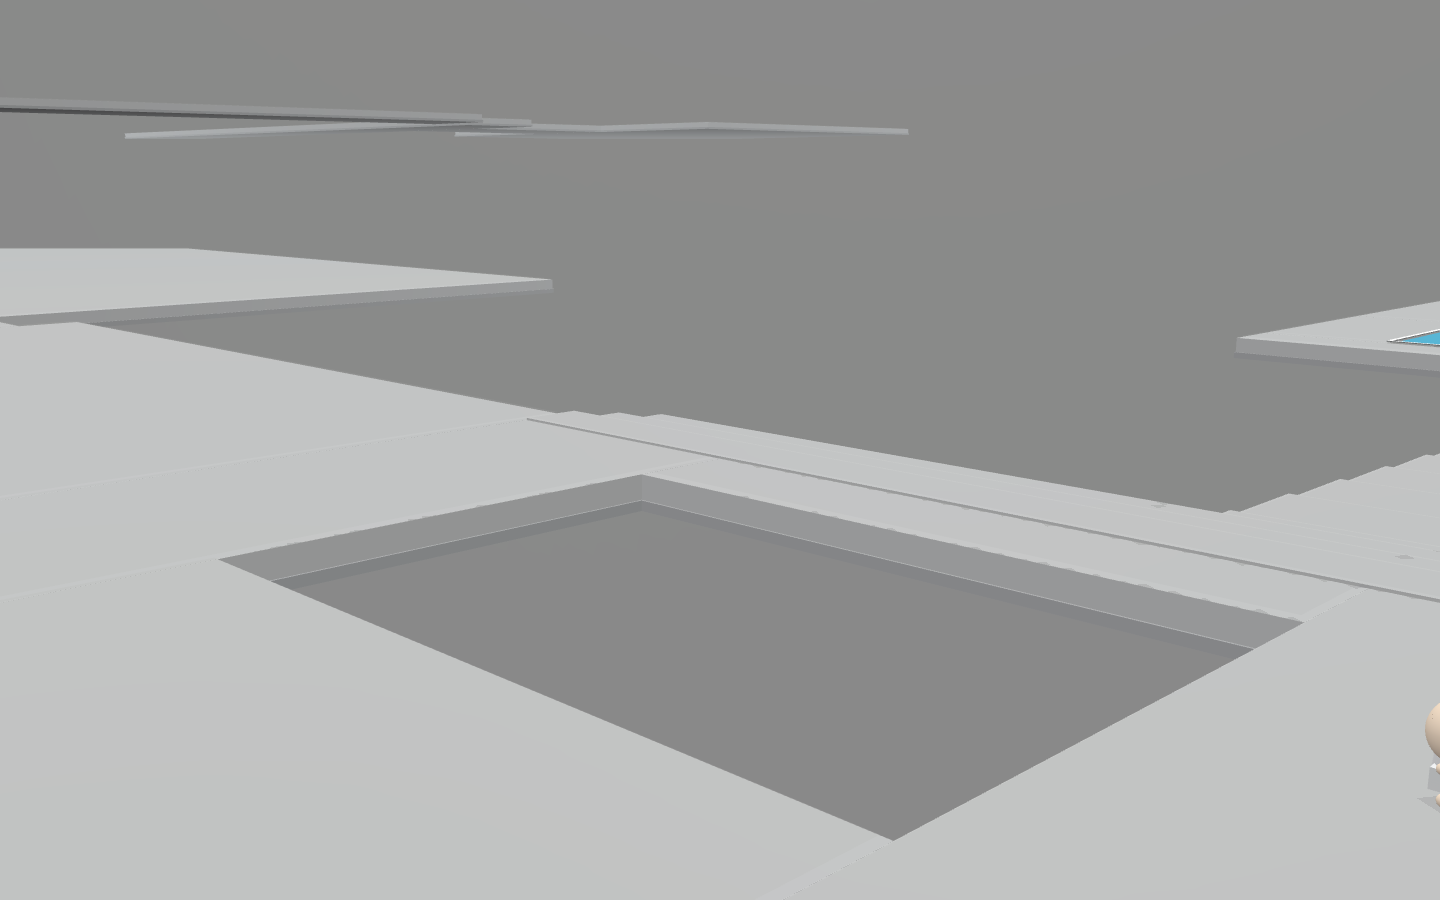
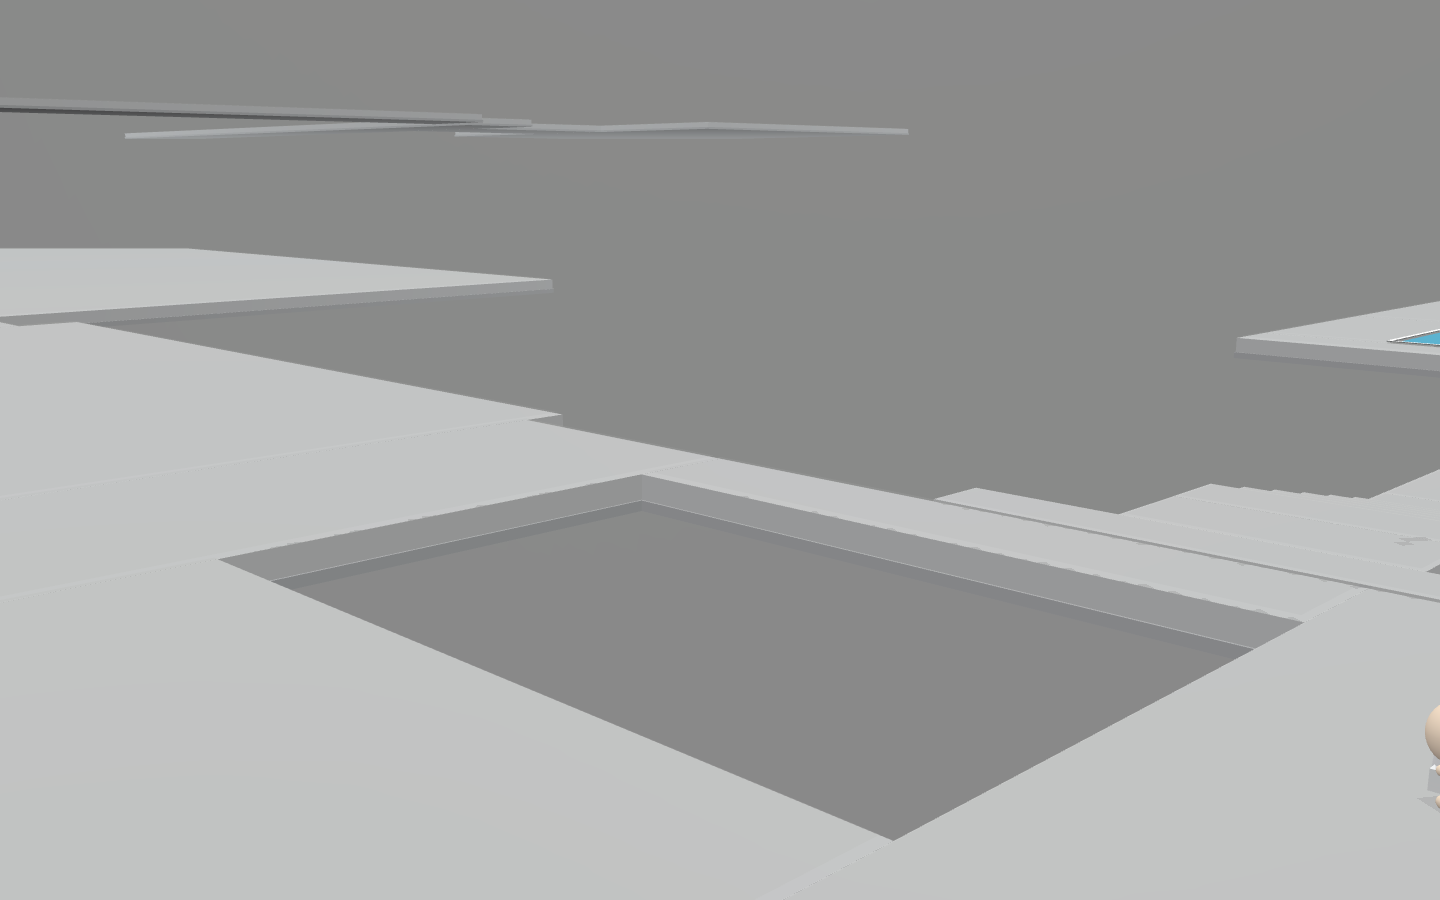
Hide the Level 5 pool tunnel exit

Changed region(s): [[0.375, 0.4356, 1.0, 0.5911]]

diff --git a/src/web3d/world/level5.js b/src/web3d/world/level5.js
@@ -26,6 +26,22 @@ function blockBounds(name, minX, maxX, minY, maxY, minZ, maxZ, extra = {}) {
   };
 }
 
+function shellBlock(name, minX, maxX, minY, maxY, minZ, maxZ, extra = {}) {
+  return blockBounds(name, minX, maxX, minY, maxY, minZ, maxZ, {
+    rgb: extra.rgb || [150, 150, 150],
+    roughness: extra.roughness ?? 0.92,
+    emissiveScale: extra.emissiveScale ?? 0.01,
+    solid: true,
+    structuralShell: true,
+    cameraIgnore: false,
+    cameraBlocker: true,
+    cameraFadeable: false,
+    decorIntent: extra.decorIntent || 'wall',
+    blockerReason: extra.blockerReason || 'room-boundary',
+    ...extra,
+  });
+}
+
 function openingAlongX(centerX, centerY, width, height) {
   return {
     minA: centerX - (width * 0.5),
@@ -207,15 +223,38 @@ const room1Blocks = makeShell('starter_pool_lab', ROOM1, {}, {
   ceilingY: 6.0,
 });
 
-const room2Blocks = makeShell('submerged_service_tunnel', ROOM2, {
-  north: openingAlongX(36.0, -1.15, 2.8, 2.3),
-  south: openingAlongX(36.0, -0.2, 3.0, 2.8),
-}, {
-  rgb: SERVICE_RGB,
-  wallBottomY: -1.8,
-  wallTopY: 1.4,
-  ceilingY: 1.4,
-});
+const room2Blocks = [
+  ...makeShell('submerged_service_tunnel', ROOM2, {
+    north: openingAlongX(36.0, -1.15, 2.8, 2.3),
+    south: openingAlongX(36.0, -0.2, 3.0, 2.8),
+  }, {
+    rgb: SERVICE_RGB,
+    wallBottomY: -1.8,
+    wallTopY: 1.4,
+    ceilingY: 1.4,
+  }),
+  // A low swim slot plus a short dogleg keep the secret exit discoverable only from inside the pool.
+  shellBlock('service_tunnel_mouth_wall_east', 35.0, 38.5, -1.8, 2.6, 34.2, 36.6, {
+    rgb: [110, 110, 110],
+    decorIntent: 'bulkhead',
+    blockerReason: 'secret-tunnel-occluder',
+  }),
+  shellBlock('service_tunnel_mouth_header_west', 33.5, 35.0, -0.25, 2.6, 34.2, 36.6, {
+    rgb: [110, 110, 110],
+    decorIntent: 'bulkhead',
+    blockerReason: 'secret-tunnel-occluder',
+  }),
+  shellBlock('service_tunnel_turn_wall_east', 35.0, 38.5, -1.8, 2.6, 36.6, 43.2, {
+    rgb: [106, 106, 106],
+    decorIntent: 'dogleg-wall',
+    blockerReason: 'secret-tunnel-turn',
+  }),
+  shellBlock('service_tunnel_return_wall_west', 33.5, 36.0, -1.8, 2.6, 43.2, 49.6, {
+    rgb: [106, 106, 106],
+    decorIntent: 'dogleg-wall',
+    blockerReason: 'secret-tunnel-turn',
+  }),
+];
 
 const room3Blocks = [
   ...makeShell('pump_junction', ROOM3, {
@@ -319,32 +358,49 @@ const eastBridgeBounds = {
   maxZ: 34.0,
 };
 
-const tunnelSteps = [];
-for (let index = 0; index < 10; index += 1) {
-  const minZ = 34.0 + (index * 2.5);
-  const maxZ = minZ + 2.5;
-  const topY = -1.6 + (index * 0.1);
-  tunnelSteps.push(surfaceRect(`service_tunnel_step_${index + 1}`, 33.55, 38.45, topY, minZ, maxZ, 'service_tunnel_floor', {
+const tunnelSteps = [
+  surfaceRect('service_tunnel_floor_1', 33.55, 38.45, -1.6, 34.0, 39.0, 'service_tunnel_floor', {
     h: 0.24,
     minThickness: 0.24,
     walkableClassification: 'service-tunnel-floor',
+  }),
+  surfaceRect('service_tunnel_floor_2', 33.55, 38.45, -1.6, 39.0, 44.0, 'service_tunnel_floor', {
+    h: 0.24,
+    minThickness: 0.24,
+    walkableClassification: 'service-tunnel-floor',
+  }),
+  surfaceRect('service_tunnel_floor_3', 33.55, 38.45, -1.6, 44.0, 49.0, 'service_tunnel_floor', {
+    h: 0.24,
+    minThickness: 0.24,
+    walkableClassification: 'service-tunnel-floor',
+  }),
+  surfaceRect('service_tunnel_floor_4', 33.55, 38.45, -1.6, 49.0, 51.0, 'service_tunnel_floor', {
+    h: 0.24,
+    minThickness: 0.24,
+    walkableClassification: 'service-tunnel-floor',
+  }),
+];
+
+const stairRisePerStep = 1.6 / 6.0;
+for (let index = 0; index < 6; index += 1) {
+  const minZ = 51.0 + (index * (8.0 / 6.0));
+  const maxZ = 51.0 + ((index + 1) * (8.0 / 6.0));
+  tunnelSteps.push(surfaceRect(`service_tunnel_stair_${index + 1}`, 33.7, 38.3, -1.6 + ((index + 1) * stairRisePerStep), minZ, maxZ, 'service_tunnel_floor', {
+    h: 0.28,
+    minThickness: 0.28,
+    walkableClassification: 'service-tunnel-stair',
   }));
 }
 
 const pumpNorthThresholds = [
-  surfaceRect('pump_north_step_1', 28.0, 52.0, -0.4, 58.0, 59.333, 'pump_junction_floor', {
-    h: 0.24,
-    minThickness: 0.24,
+  surfaceRect('pump_entry_landing', 33.7, 38.3, 0.0, 59.0, 60.8, 'pump_junction_floor', {
+    h: 0.3,
+    minThickness: 0.3,
     walkableClassification: 'threshold-floor',
   }),
-  surfaceRect('pump_north_step_2', 28.0, 52.0, -0.2, 59.333, 60.667, 'pump_junction_floor', {
-    h: 0.24,
-    minThickness: 0.24,
-    walkableClassification: 'threshold-floor',
-  }),
-  surfaceRect('pump_north_step_3', 28.0, 52.0, 0.0, 60.667, 62.0, 'pump_junction_floor', {
-    h: 0.24,
-    minThickness: 0.24,
+  surfaceRect('pump_entry_spread', 31.0, 41.0, 0.0, 60.8, 62.0, 'pump_junction_floor', {
+    h: 0.3,
+    minThickness: 0.3,
     walkableClassification: 'threshold-floor',
   }),
 ];
@@ -435,7 +491,7 @@ export const LEVEL5 = compileAuthoredEraLayout({
         ceilingY: 6.0,
         floorSurfaceType: 'starter_room_floor',
         wallLanguage: 'graybox_lab_shell',
-        landmarks: ['pool', 'south pool tunnel mouth'],
+        landmarks: ['pool', 'hidden south pool tunnel mouth'],
         shell: false,
         surfaces: [
           surfaceRect('starter_floor_north', 0.0, 48.0, 0.0, 0.0, 26.0, 'starter_room_floor', {
@@ -767,6 +823,7 @@ export const LEVEL5 = compileAuthoredEraLayout({
       w: 16.0,
       h: 2.25,
       d: 8.0,
+      northExitStairs: false,
       southTunnelMouth: {
         centerX: 36.0,
         centerY: -1.15,
@@ -778,16 +835,28 @@ export const LEVEL5 = compileAuthoredEraLayout({
   ],
   submergedPassages: [
     {
-      name: 'service_tunnel_water',
+      name: 'service_tunnel_water_main',
       minX: 33.5,
       maxX: 38.5,
       minY: -1.8,
       maxY: 1.4,
       minZ: 34.0,
-      maxZ: 59.0,
-      waterSurfaceY: 1.2,
+      maxZ: 54.0,
+      waterSurfaceY: 1.0,
       floorStartY: -1.6,
-      floorEndY: -0.6,
+      floorEndY: -1.6,
+    },
+    {
+      name: 'service_tunnel_water_stairs',
+      minX: 33.5,
+      maxX: 38.5,
+      minY: -1.8,
+      maxY: 1.4,
+      minZ: 54.0,
+      maxZ: 59.0,
+      waterSurfaceY: -0.15,
+      floorStartY: -1.0,
+      floorEndY: 0.0,
     },
   ],
   ladders: [

diff --git a/tests/runtime-levels.spec.js b/tests/runtime-levels.spec.js
@@ -1578,6 +1578,38 @@ async function sampleLevel5Pose(page, pose, waitMs = 220) {
   }));
 }
 
+async function getLevel5SecretTunnelAudit(page) {
+  return page.evaluate(() => {
+    const scene = window.__DADA_DEBUG__?.sceneRef ?? null;
+    /** @type {any[]} */
+    const meshes = scene?.meshes ?? [];
+    const sourceNameFor = (mesh) => String(mesh?.metadata?.sourceName || mesh?.name || '');
+    const camera = scene?.activeCamera ?? null;
+    const screenSamples = [
+      { id: 'left_stairs', x: 120, y: 300 },
+      { id: 'left_block', x: 260, y: 285 },
+      { id: 'top_strip', x: 640, y: 125 },
+      { id: 'pool_back', x: 290, y: 305 },
+    ];
+
+    return {
+      screenSamples: screenSamples.map((sample) => {
+        const hit = scene?.pick?.(
+          sample.x,
+          sample.y,
+          (mesh) => mesh?.isVisible !== false && (mesh?.visibility ?? 1) > 0.02,
+          false,
+          camera,
+        ) ?? null;
+        return {
+          id: sample.id,
+          sourceName: sourceNameFor(hit?.pickedMesh),
+        };
+      }),
+    };
+  });
+}
+
 async function climbLevel5Ladder(page, pose, holdMs = 2300) {
   await resetEra5Pose(page, pose);
   await page.waitForTimeout(120);
@@ -1661,6 +1693,16 @@ test('@level5 @era5 runtime: level 5 graybox route is traversable, both ladders 
       minY: -1.9,
     },
     {
+      pose: { x: 36.0, y: -0.95, z: 54.6, yaw: Math.PI, cameraYaw: Math.PI },
+      bounds: { minX: 33.5, maxX: 38.5, minY: -1.8, maxY: 1.4, minZ: 34.0, maxZ: 59.0 },
+      minY: -1.4,
+    },
+    {
+      pose: { x: 36.0, y: -0.25, z: 57.4, yaw: Math.PI, cameraYaw: Math.PI },
+      bounds: { minX: 33.5, maxX: 38.5, minY: -1.8, maxY: 1.4, minZ: 34.0, maxZ: 59.0 },
+      minY: -0.6,
+    },
+    {
       pose: { x: 31.0, y: 0.42, z: 68.0, yaw: Math.PI * 0.5, cameraYaw: Math.PI * 0.5 },
       bounds: { minX: 28.0, maxX: 52.0, minY: -0.6, maxY: 7.4, minZ: 58.0, maxZ: 78.0 },
       minY: 0.2,
@@ -1712,6 +1754,27 @@ test('@level5 @era5 runtime: level 5 graybox route is traversable, both ladders 
   const ladderState = await page.evaluate(() => window.__DADA_DEBUG__?.era5LevelState?.graybox ?? null);
   expect(ladderState?.ladders?.map((ladder) => ladder.id)).toEqual(['west_ladder', 'east_ladder']);
   expect(ladderState?.activeLadderId ?? null).toBeNull();
+});
+
+test('@level5 @era5 runtime: level 5 secret pool tunnel stays hidden from Room 1 and the stair run exits the water halfway up', async ({ page }) => {
+  test.setTimeout(120_000);
+  await gotoDebugLevel(page, 5);
+  await unlockEra5(page);
+  await startDebugLevel(page, 5);
+  await page.waitForTimeout(1300);
+  await resetEra5Pose(page, { x: 8.0, y: 0.42, z: 18.0, yaw: Math.PI * 0.5, cameraYaw: Math.PI * 0.5 });
+  await page.waitForTimeout(300);
+
+  const audit = await getLevel5SecretTunnelAudit(page);
+  const visibleSources = (audit.screenSamples || []).map((sample) => sample.sourceName || '');
+  for (const sourceName of visibleSources) {
+    expect(sourceName.includes('pump_junction')).toBe(false);
+    expect(sourceName.includes('transfer_gallery')).toBe(false);
+    expect(sourceName.includes('grand_stadium_room')).toBe(false);
+    expect(sourceName.includes('service_tunnel_turn_wall_east')).toBe(false);
+    expect(sourceName.includes('service_tunnel_return_wall_west')).toBe(false);
+  }
+
 });
 
 test('@level5 @era5 runtime: level 5 manual reset respawns to the starter pool lab anchor', async ({ page }) => {

diff --git a/tests/screenshot.spec.js b/tests/screenshot.spec.js
@@ -860,11 +860,29 @@ test('capture Level 5 graybox proof screenshots', async ({ page }) => {
     pose: { x: 8.0, y: 0.42, z: 18.0, yaw: Math.PI * 0.5, cameraYaw: Math.PI * 0.5 },
     view: {
       label: 'l5-graybox-room1',
-      position: { x: 5.5, y: 3.8, z: 8.5 },
-      target: { x: 36.0, y: -0.6, z: 30.0 },
+      position: { x: 6.0, y: 3.4, z: 10.0 },
+      target: { x: 36.0, y: -0.85, z: 31.2 },
+      fov: 0.6,
+    },
+  });
+
+  await frameRoom({
+    path: 'docs/screenshots/level5-graybox-room1-hidden-exit.png',
+    pose: { x: 8.0, y: 0.42, z: 18.0, yaw: Math.PI * 0.5, cameraYaw: Math.PI * 0.5 },
+    view: {
+      label: 'l5-graybox-room1-hidden-exit',
+      position: { x: 13.5, y: 2.7, z: 14.5 },
+      target: { x: 36.0, y: -1.1, z: 33.4 },
       fov: 0.58,
     },
   });
+
+  await page.evaluate(() => {
+    window.__DADA_DEBUG__?.clearEra5CameraDebugView?.();
+    window.__DADA_DEBUG__?.setEra5Pose?.({ x: 8.0, y: 0.42, z: 18.0, yaw: Math.PI * 0.5, cameraYaw: Math.PI * 0.5 });
+  });
+  await page.waitForTimeout(800);
+  await captureProof('docs/screenshots/level5-graybox-room1-gameplay-view.png');
 
   await frameRoom({
     path: 'docs/screenshots/level5-graybox-room2-service-tunnel.png',
@@ -874,6 +892,17 @@ test('capture Level 5 graybox proof screenshots', async ({ page }) => {
       position: { x: 36.0, y: 0.2, z: 47.0 },
       target: { x: 36.0, y: -0.9, z: 58.5 },
       fov: 0.62,
+    },
+  });
+
+  await frameRoom({
+    path: 'docs/screenshots/level5-graybox-room2-secret-stairs.png',
+    pose: { x: 36.0, y: -0.55, z: 56.2, yaw: Math.PI, cameraYaw: Math.PI },
+    view: {
+      label: 'l5-graybox-room2-secret-stairs',
+      position: { x: 40.2, y: 1.3, z: 58.8 },
+      target: { x: 36.0, y: -0.2, z: 55.8 },
+      fov: 0.6,
     },
   });
 

diff --git a/src/web3d/world/buildWorld5.js b/src/web3d/world/buildWorld5.js
@@ -1430,6 +1430,7 @@ export function buildWorld5(scene, options = {}) {
     mesh.position.copyFrom(position);
     mesh.material = material;
     markTruthOverlayMesh(mesh);
+    mesh.setEnabled(false);
     return mesh;
   }
 
@@ -1477,6 +1478,7 @@ export function buildWorld5(scene, options = {}) {
     marker.position.set(anchor.x, anchor.y + 0.36, anchor.z);
     marker.material = respawnOverlayMat;
     markTruthOverlayMesh(marker);
+    marker.setEnabled(false);
     respawnOverlayNodes.push(marker);
   }
 
